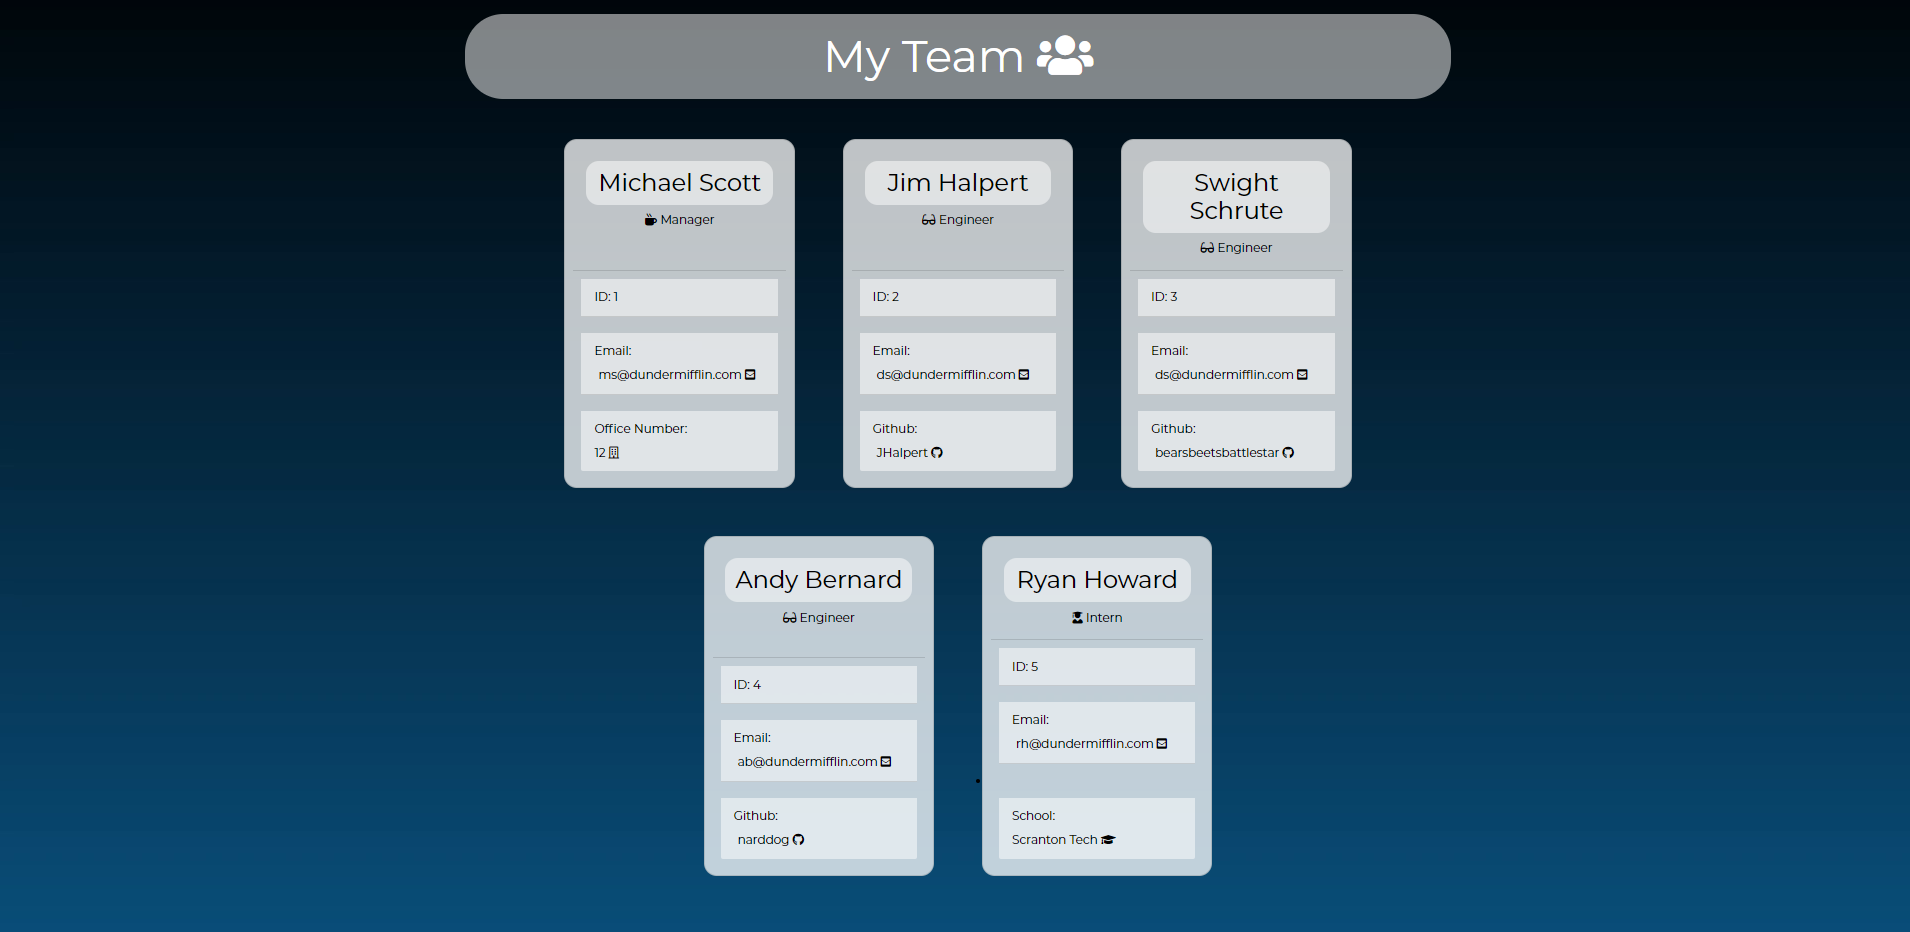
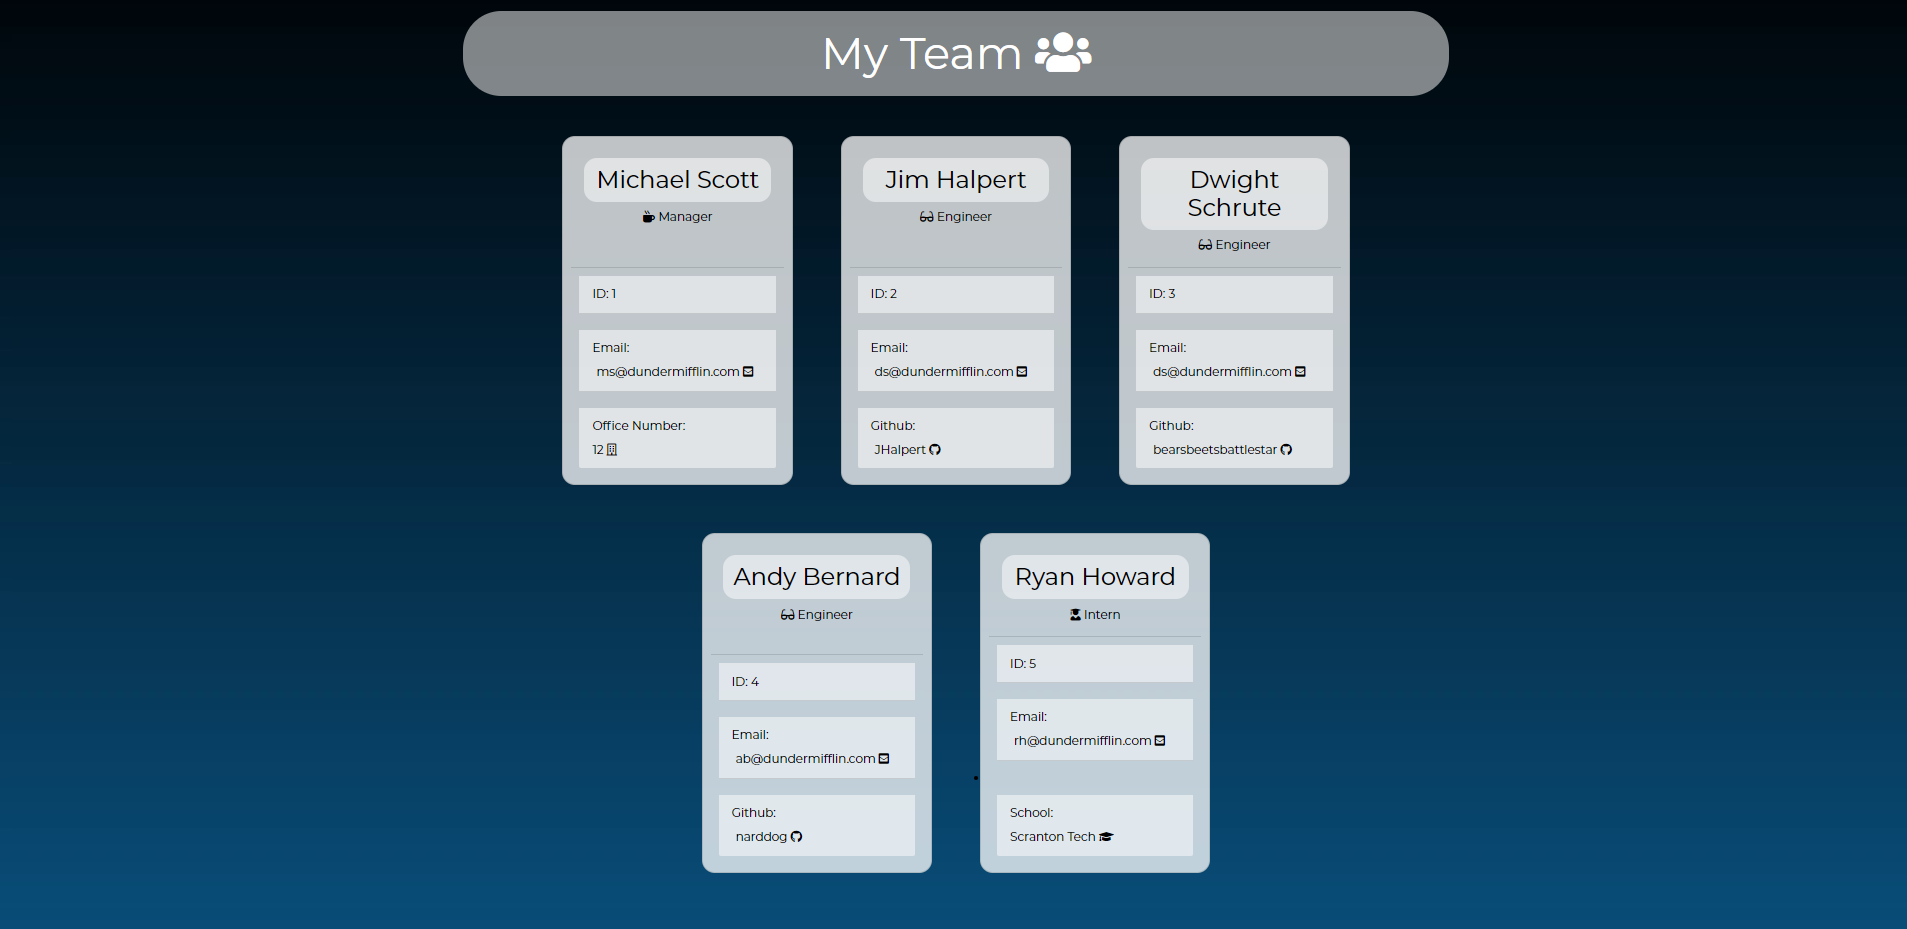
fixed mispelling

diff --git a/dist/template.html b/dist/template.html
@@ -50,7 +50,7 @@
         </div>
         <div class="card" style="width: 18rem;">
             <div class="card-body">
-            <h5 class="card-title">Swight Schrute</h5>
+            <h5 class="card-title">Dwight Schrute</h5>
             <p class="card-text"><i class="fas fa-glasses mr-2"></i> Engineer</p>
             </div>
             <ul class="list-group list-group-flush">
